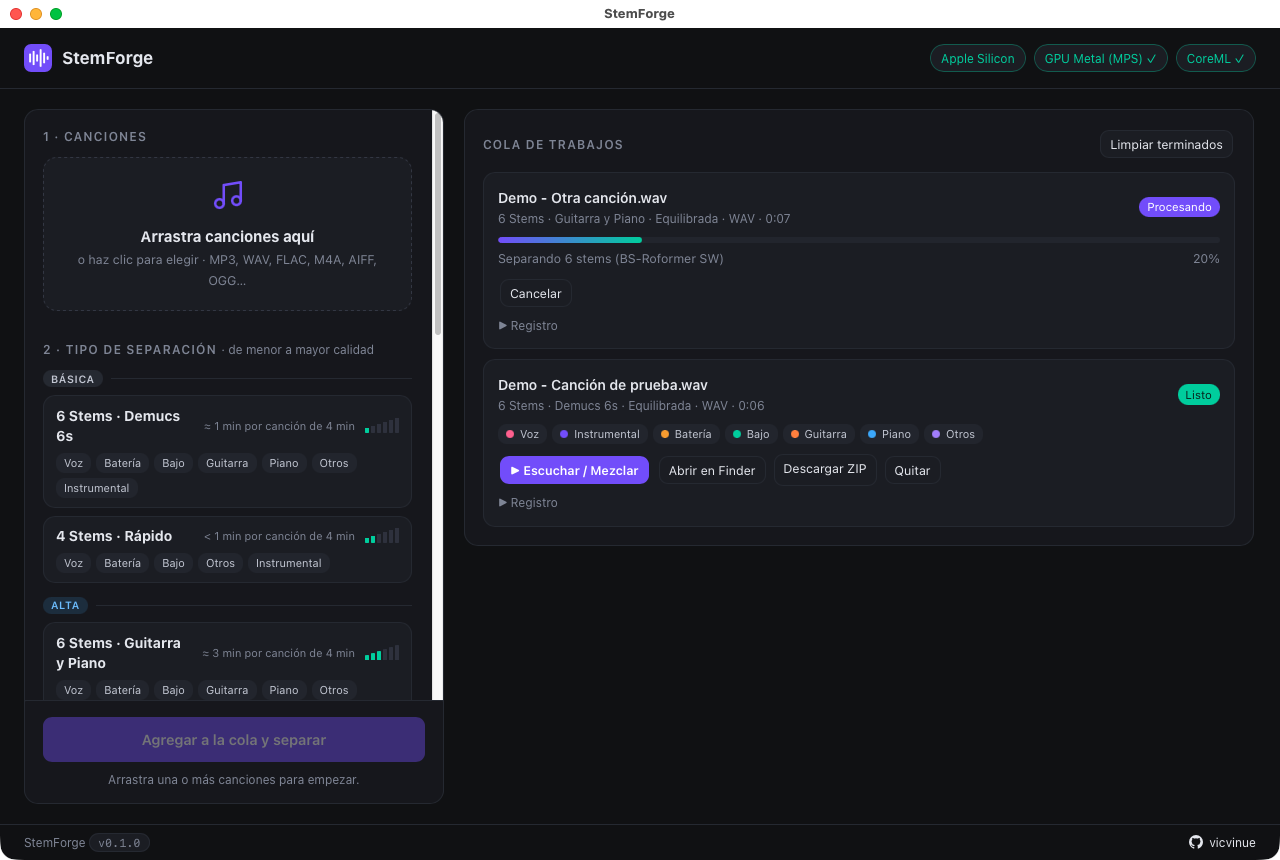
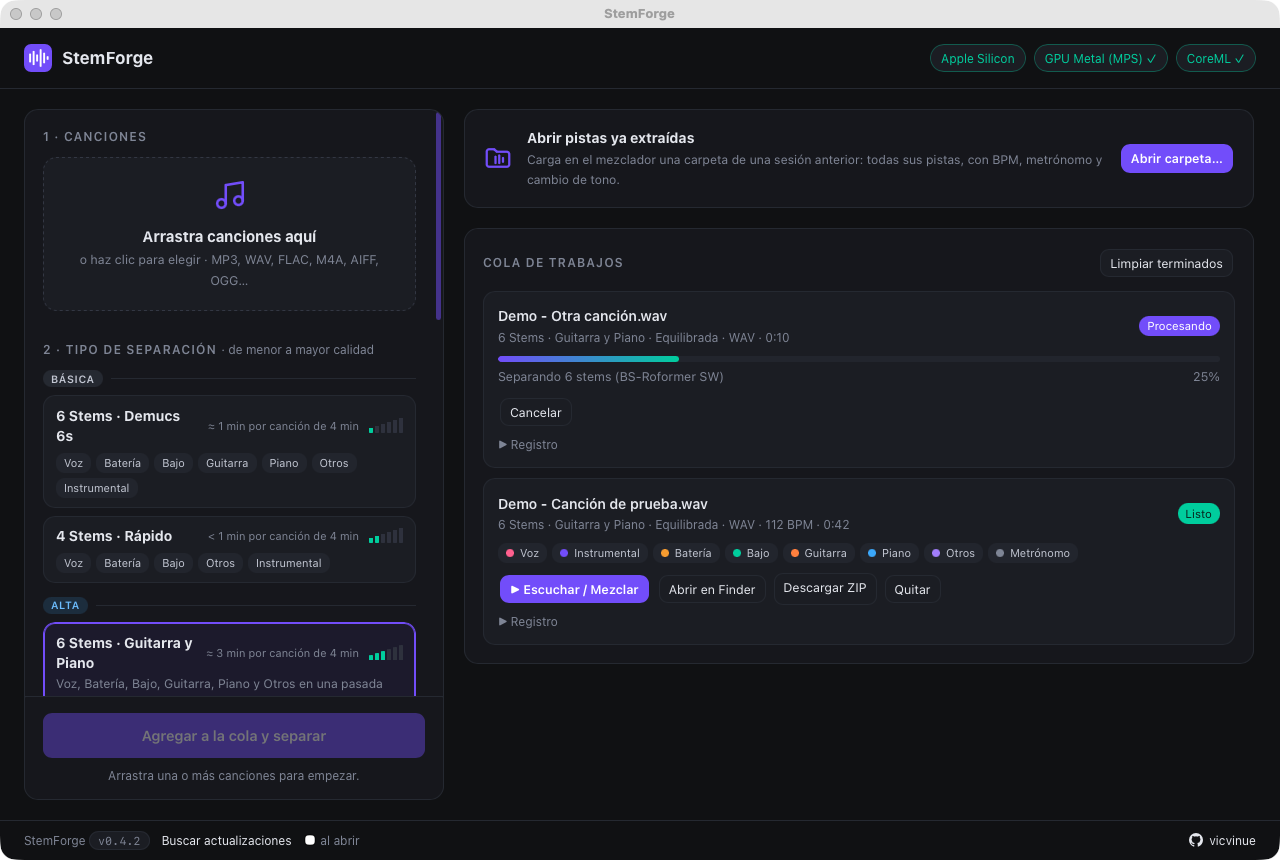
README: capturas y textos de la 0.4.2 (BPM, metrónomo, tono, abrir carpetas)

diff --git a/README.md b/README.md
@@ -1,18 +1,18 @@
 # StemForge
 
-**Versión 0.3.0** · por [vicvinue](https://github.com/vicvinue) · Licencia MIT
+**Versión 0.4.2** · por [vicvinue](https://github.com/vicvinue) · Licencia MIT
 
 Separador de stems para **macOS con Apple Silicon** (M1/M2/M3/M4) y **Windows 10/11 (x64)**.
 En el Mac usa la GPU (PyTorch **MPS / Metal**). En Windows hay dos instaladores: uno para **GPU NVIDIA (CUDA)**
 y otro, más liviano, que usa la CPU.
 
-![StemForge: cola de trabajos con una canción separándose y otra lista](docs/screenshots/cola.png)
+![StemForge: cola de trabajos con una canción separándose y otra lista, con su BPM y metrónomo](docs/screenshots/cola.png)
 
-<p align="center"><em>Cola de trabajos: elige el modo a la izquierda y sigue el progreso de cada canción.</em></p>
+<p align="center"><em>Cola de trabajos: elige el modo a la izquierda y sigue el progreso de cada canción. Arriba, «Abrir carpeta…» carga en el mezclador las pistas de una sesión anterior.</em></p>
 
-![StemForge: mezclador con las pistas separadas](docs/screenshots/mezclador.png)
+![StemForge: mezclador con las pistas separadas, el tempo, el metrónomo y el tono subido 2 semitonos](docs/screenshots/mezclador.png)
 
-<p align="center"><em>Mezclador integrado: escucha los stems sincronizados con mute, solo y volumen por pista.</em></p>
+<p align="center"><em>Mezclador integrado: stems sincronizados con mute, solo y volumen por pista, BPM detectado, metrónomo y cambio de tono (±5 semitonos) que se puede guardar como una versión nueva.</em></p>
 
 <sub>Capturas hechas con una pista de demostración sintética (batería, bajo y acordes generados + voz de texto a voz de macOS).</sub>
 
